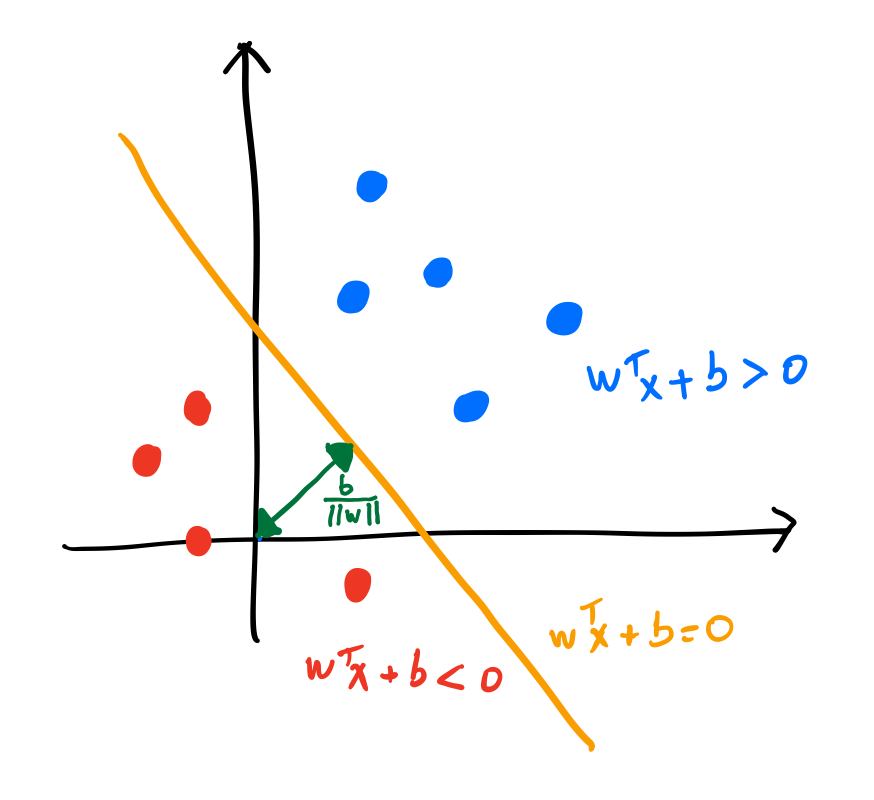
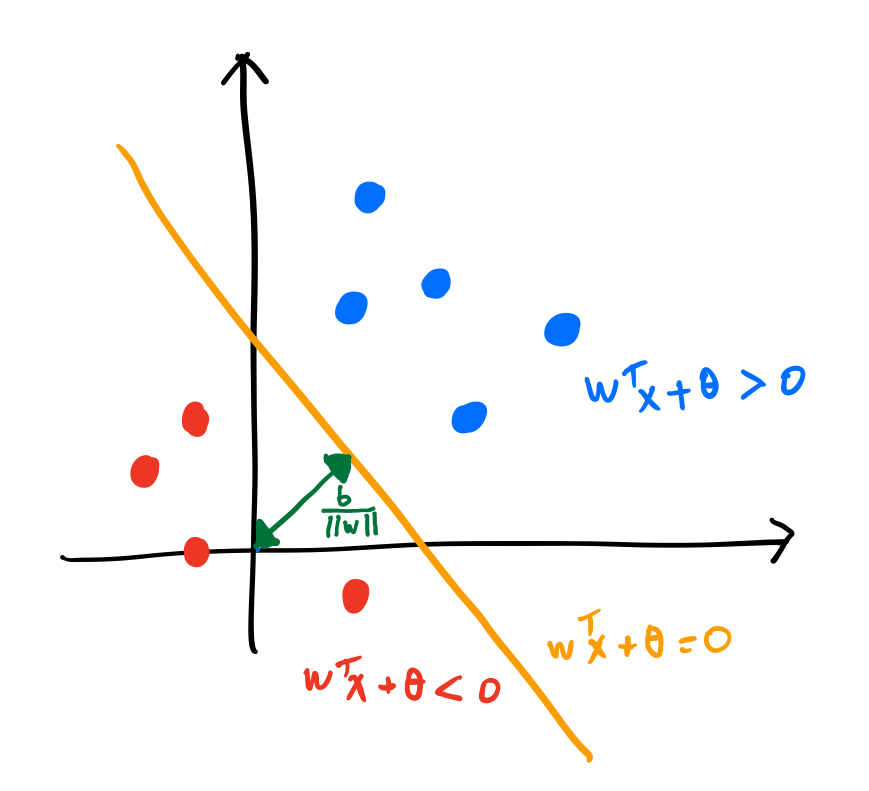
Working on the lecture about Support Vector Machines.

diff --git a/machine_learning/Classification/Support_Vector_Machines/lecture.tex b/machine_learning/Classification/Support_Vector_Machines/lecture.tex
@@ -340,7 +340,7 @@ e
 \justify Desta forma, obtendo-se $\boldsymbol{\alpha}^\ast$ por algum método de otimização matemática, basta utilizamos ele na Equação 9 para obtemos $\boldsymbol{w}$. Já para calcularmos o $\theta$, precisamos utilizar as condições de KKT, as quais são condições \textbf{necessárias} para que a solução do problema dado pela Equação 15 seja ótima. Essas condições são dadas pelas seguintes restrições:
 
 \begin{equation}
-	\alpha_i^\ast(y_i(\boldsymbol{w}\boldsymbol{x}_i+\theta)-1) = 0,\ \forall i=1,2,\ldots,m.
+	\alpha_i^\ast(y_i[(\boldsymbol{w}^\ast)^T\boldsymbol{x}_i+\theta]-1) = 0,\ \forall i=1,2,\ldots,m.
 \end{equation}
 }
 
@@ -375,7 +375,93 @@ A função de decisão (classificação) do SVM apenas retorna o sinal da amostr
 \SliT{SVMs com Margens Suaves}{
 \justify O objetivo dessa variante é lidar com o problema de sobreposição entre as classes permitindo com que algumas amostras possam violar a restrição e situar-se \textbf{entre} as margens.
 
-\justify Lembrando que as restrições originais eram dadas por $y_i(\boldsymbol{w}^T\boldsymbol{x}_i+\theta)\geq 1$, $\forall i=1,2\ldots,m$.
+\justify Lembrando que as restrições originais eram dadas por $y_i(\boldsymbol{w}^T\boldsymbol{x}_i+\theta)\geq 1$, $\forall i=1,2\ldots,m$. Agora, nossas novas restrições são dadas por:
+
+\begin{equation}
+	y_i(\boldsymbol{w}^T\boldsymbol{x}_i+\theta)\geq 1-\epsilon_i,
+\end{equation}
+em que $\epsilon_i\geq 0$ representam as variáveis de folga que possuem o papel de ``suavizar"\ as margens.
+}
+
+\Sli{
+Agora, nossa função objetivo é dada por:
+
+\begin{equation}
+	\boldsymbol{w}^\ast,\theta^\ast,\boldsymbol{\epsilon}^\ast = \argmin\left\{\frac{1}{2}\norm{w}^2+C\left(\sum_{i=1}^m\epsilon_i\right)\right\},
+\end{equation}
+sujeito a $y_i(\boldsymbol{w}^T\boldsymbol{x}_i+\theta)\geq 1-\epsilon_i$, em que $\epsilon_i\in[0,1]$ indica que os dados estão entre as margens. Note que o parâmetro $C$ controla a relação custo-benefício entre SVMs de margens rígidas e margens suaves.
+}
+
+\Sli{
+\justify A ideia, então, é permitir que amostras estejam posicionadas entre as margens, conforme ilustrado abaixo.
+
+\begin{center}
+\includegraphics[scale=0.19]{./figs/SVM_Fig8.png}
+\end{center}
+}
+
+\Sli{
+A forma dual de nosso problema de otimização é muito similar ao que tínhamos apresentado na formulação das SVMs de margens rígidas (Equação 15), ou seja:
+
+\begin{equation}\nonumber
+	\boldsymbol{\alpha}^\ast = \argmax_{\boldsymbol{\alpha}}\left\{-\frac{1}{2}\sum_{i=1}^m\sum_{j=1}^m\alpha_i\alpha_jy_iy_j\boldsymbol{x}_i^T\boldsymbol{x}_j+\sum_{i=1}^m\alpha_i\right\}, 
+\end{equation}
+sujeito às seguintes restrições:
+
+\begin{equation}\nonumber
+	0 \leq \alpha_i \leq C,\ \ \forall i=1,2,\ldots,m
+\end{equation}
+e
+\begin{equation}\nonumber
+\sum_{i=1}^m\alpha_iy_i = 0.	
+\end{equation}
+}
+
+\Sli{
+\justify O nosso vetor de pesos $\boldsymbol{w}^\ast$ continua sendo calculado pela Equação 9. Já as variáveis de folga podem ser calculadas da seguinte maneira:
+
+\begin{equation}
+	\epsilon_i^\ast = \max\left\{0,1-\left[y_i\sum_{j=1}^my_j\alpha_j^\ast\boldsymbol{x}_i^T\boldsymbol{x}_j\right]+\theta^\ast\right\}.
+\end{equation}
+
+Agora, notem que temos duas condições de KKT:
+
+\begin{equation}
+	\alpha_i^\ast(y_i[(\boldsymbol{w}^\ast)^T\boldsymbol{x}_i+\theta]-1+\boldsymbol{\epsilon}^\ast) = 0,\ \forall i=1,2,\ldots,m.
+\end{equation}
+e
+\begin{equation}
+	(C-\alpha_i^\ast)\epsilon_i^\ast = 0.
+\end{equation}
+}
+
+\Sli{
+\justify No caso das SVMs com margens rígidas, tínhamos que os vetores de suporte eram as amostras $\boldsymbol{x}_i$ cujos multiplicadores de Lagrange $\alpha_i\geq0$. Agora, no caso das SVMs com margens suaves, temos que existem diferentes tipos de vetores de suporte de acordo com os valores de $\alpha_i$ e $\epsilon_i$.\newline
+
+Caso $\alpha_i < C$, temos que $\epsilon_i^\ast = 0$ para a Equação 24 ser satisfeita. Ademais, pela Equação 23, concluímos que $\boldsymbol{x}_i$ é um vetor de suporte que está sobre a margem $H_1$ ou $H_2$ (depende de sua classe). Este seria o mesmo caso das SVMs com margens rígidas.
+}
+
+\Sli{
+Agora, caso $\alpha_i^\ast = C$, temos três possíveis situações:
+
+\begin{enumerate}
+	\item $\epsilon_i^\ast>1$: erros no conjunto de treinamento pois os vetores de suporte cruzam o hiperplano separador.
+	\item $0\leq\epsilon_i^\ast<1$: amostras situadas entre as margens (não são erros, apenas estão violando as regras).
+	\item $\epsilon_i^\ast = 0$: amostras sobre as margens.
+\end{enumerate}
+\vspace{-0.7cm}
+\begin{center}
+\includegraphics[scale=0.14]{./figs/SVM_Fig9.png}
+\end{center}
+}
+
+\Sli{
+Falta, agora, calcularmos $\theta^\ast$, que é computado pela média da Equação 18 sobre todos os vetores de suporte com $\alpha_i<C$, ou seja:
+
+\begin{equation}
+	\theta^\ast = \frac{1}{|{\cal V}|}\sum_{\boldsymbol{x}_i\in{\cal S}\wedge\alpha_i\ast<C}\left\{\frac{1}{y_i}-\sum_{\boldsymbol{x}_j\in{\cal S}}\alpha_j^\ast y_j\boldsymbol{x}_j^T\boldsymbol{x}_i\right\}.
+\end{equation}
+Lembrando que ${\cal S}$ denota o conjunto de todos os vetores de suporte (livres e limitados), e ${\cal V}$ denota os vetores de suporte limitados apenas, ou seja, aquelas amostras para as quais $\alpha_i^\ast<C$.
 }
 
 \end{document}
